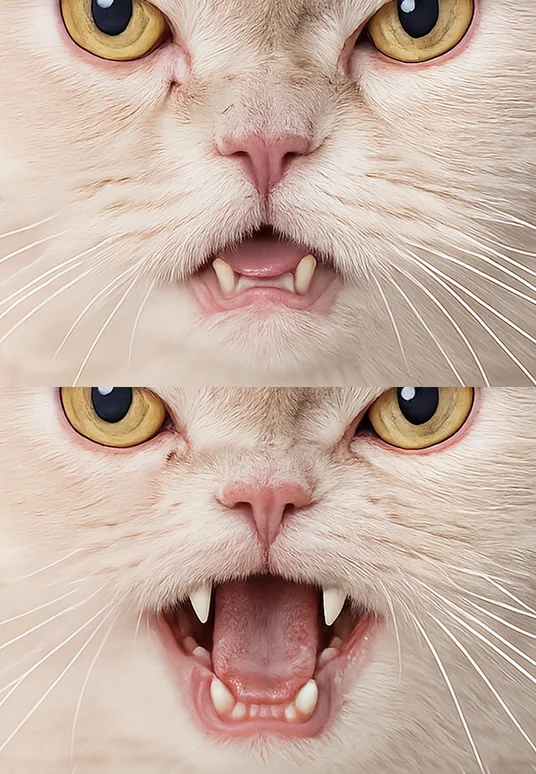
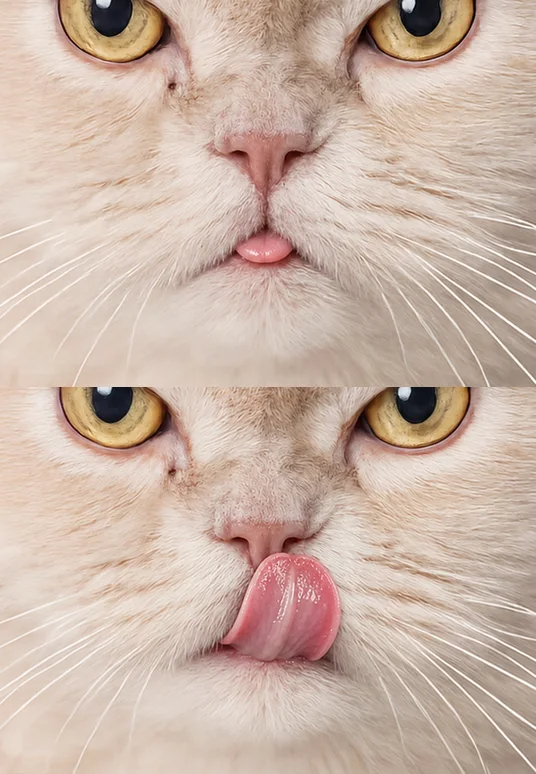
고양이 간식은 츄르: 삼식 핥는 혀 표정(ChatGPT), 잘린 머리 AI로 채우기
- 고양이는 모두 손끝에 츄르 스틱 (더 크고 또렷하게), 한 번 핥기 1.3초로 츄르가 천천히 줄어든다
- 삼식: 간식 입 2장을 츄르 핥는 혀로 다시 만들었다 (ChatGPT 구독, pet-add --cat-mouth lick), rig.lick
- 입 사진이 없는 고양이는 츄르를 댄 채 아래턱만 아주 작게 오물거린다
- AI 정면 프롬프트: 사진 밖으로 잘린 머리·귀·턱을 보이는 부분에 맞춰 채워 그리기.
  무료 버전이 '자른 뒤 머리 잘림'으로만 떨어진 아이는 고퀄 후보(layoutOnly)로 남기고, 원본에서 가장자리에 닿았으면 aiFill 표시
- 고퀄 정수리: 관절 짐작보다 실제 머리 털이 더 위면 그 높이로 (털 풍성·귀 접힌 고양이 머리 위가 평평하게 잘렸다)
- 고퀄 고양이 입 표정이 있으면 rig.lick을 늘 붙인다. 고퀄 작업 자리가 없어졌으면 다시 만든다
- pet-add: 자르는 범위가 바뀌면 AI 얼굴 정사각형 원본도 지운다 (남아 있으면 새 구도에 붙여 어긋났다)

diff --git a/scripts/shelter-make.ts b/scripts/shelter-make.ts
@@ -91,6 +91,10 @@ interface Verdict {
   hand?: boolean
   hq?: boolean
   aiFrontal?: boolean
+  /** 무료 버전은 '자른 뒤 머리 잘림'으로만 탈락 (고퀄은 AI가 잘린 부분을 채워 그려 만들 수 있다) */
+  layoutOnly?: boolean
+  /** 원본 사진에서 머리·귀가 사진 밖으로 잘려 AI가 채워 그렸다 */
+  aiFill?: boolean
   /** 정면도 0~1, 공고 사진 수, 판정을 통과한 사진 수 */
   frontal?: number
   total?: number
@@ -130,7 +134,10 @@ async function make() {
     const { options, why, total } = await judge(a)
     const v: Verdict = { id: a.id, sp: a.sp as 'dog' | 'cat', ok: false, why: [...why], total, passed: options.length, end: a.end }
     // 사람이 기준점을 손으로 맞춘 아이와 고퀄로 만든 아이는 다시 만들지 않고 그대로 쓴다 (덮어쓰면 손으로 맞춘 기준점·AI 결과가 사라진다)
-    const prev = handTuned(a.id) || previous.get(a.id)?.hq ? previous.get(a.id) : undefined
+    const prevV = previous.get(a.id)
+    // (고퀄 작업 자리가 없어졌으면 다시 만든다)
+    const prevHqOk = prevV?.hq && existsSync(join(hqDir(a.id), 'landmarks.json'))
+    const prev = handTuned(a.id) || prevHqOk ? prevV : undefined
     if (prev?.ok) {
       const hqId = prev.hq ? `shelter-${a.id}-hq` : undefined
       Object.assign(v, prev, { why: ['이전 결과 그대로 (손으로 맞춤·고퀄)', ...prev.why.filter((w) => !w.startsWith('이전 결과'))], end: a.end, rig: rigFor(a, hqId) })
@@ -148,6 +155,8 @@ async function make() {
         const bad = layoutProblems(rig as Rig)
         if (bad.length) {
           v.why.push(`${tag}: ${bad.join(', ')}`)
+          // 무료 버전은 탈락이지만, 고퀄(AI 정면)은 잘린 부분을 채워 그릴 수 있어 후보로 남긴다
+          if (!v.layoutOnly) Object.assign(v, { layoutOnly: true, photo: o.photo, frontal: o.frontal })
           continue
         }
         Object.assign(v, { ok: true, made: true, rig, photo: o.photo, frontal: o.frontal })
@@ -453,6 +462,8 @@ function rigFor(a: Animal, id = `shelter-${a.id}`) {
       fadeSides: { ...(frame.cutLeft && { left: -face.offsetX }), ...(frame.cutRight && { right: 1086 - face.offsetX }) },
     }),
     ...(expressions && { expressions }),
+    // 고퀄 고양이에 입 표정(츄르 핥는 혀)이 있으면 핥아 먹는다
+    ...(a.sp === 'cat' && id.endsWith('-hq') && expressions?.pant && { lick: true }),
     // 손으로 맞추지 않은 기준점이면 앱이 표정이 있어도 SAFE로 그린다
     autoLandmarks: !existsSync(join(SRC, 'hand-tuned')),
   }
@@ -485,7 +496,7 @@ async function hq(ids: string[]) {
   const vpath = join(STAGE, 'verdicts.json')
   const all = existsSync(vpath) ? (readJson(vpath).verdicts as Verdict[]) : fail('먼저 npm run shelter:make')
   const animals = new Map((readJson(join(DATA, 'animals.json')).animals as Animal[]).map((a) => [a.id, a]))
-  const pick = ids.map((id) => all.find((v) => v.id === id && v.ok) ?? fail(`통과하지 못했거나 없는 아이예요: ${id}`))
+  const pick = ids.map((id) => all.find((v) => v.id === id && (v.ok || v.layoutOnly)) ?? fail(`통과하지 못했거나 없는 아이예요: ${id}`))
   // 유료: 정면 새로 그리기 약 $0.2, 눈 감기 2장 약 $0.28
   const cost = pick.reduce((s, v) => s + (existsSync(join(hqDir(v.id), 'cutout.png')) ? 0 : 0.2) + (existsSync(join(hqDir(v.id), 'expr-final-square.png')) ? 0 : 0.28), 0)
   // --via chatgpt: ChatGPT 구독(gpt-image 스킬)으로 그린다 (API 비용 없음, 구독 사용량을 쓴다)
@@ -510,7 +521,20 @@ async function hq(ids: string[]) {
         const det = detectPadded(join(dir, 'cutout.png'), join(dir, 'cutout.detect.json'))
         const problems = det ? check({ ...det, humanFaces: 0, hands: [] }, v.sp).filter((p) => !p.startsWith('얼굴이 작음')) : ['Apple Vision 실패']
         if (problems.length) throw new Error(`AI 정면 사진 판정: ${problems.join(', ')}`)
-        writeJson(join(dir, 'landmarks.raw.json'), rawFromPose(det!, v.sp))
+        const raw = rawFromPose(det!, v.sp)
+        // 정수리: 관절로 짐작한 높이보다 실제 머리(불투명한 털)가 더 위면 그 높이로 (털이 풍성하거나 귀가 접힌 고양이는 짐작이 낮아 머리 위가 평평하게 잘렸다)
+        const top = spawnSync('python3', ['-c', `
+import sys, numpy as np
+from PIL import Image
+a = np.array(Image.open(sys.argv[1]).convert('RGBA'))[:, :, 3] > 128
+h, w = a.shape
+x0, x1 = int(float(sys.argv[2]) * w), int(float(sys.argv[3]) * w)
+cols = a[:, max(0, x0):min(w, x1)]
+rows = np.where(cols.mean(axis=1) > 0.5)[0]
+print(rows.min() / h if len(rows) else 1)`, join(dir, 'cutout.png'), String(raw.left_eye.x / 1000), String(raw.right_eye.x / 1000)], { encoding: 'utf8' })
+        const topN = Math.round(Number(top.stdout.trim()) * 1000)
+        if (Number.isFinite(topN) && topN < raw.head_top.y) raw.head_top = { x: raw.head_top.x, y: topN }
+        writeJson(join(dir, 'landmarks.raw.json'), raw)
         add('--id', id, '--from', 'frontal', '--until', 'prepare')
         writeFileSync(join(dir, 'landmarks.auto.json'), readFileSync(join(dir, 'landmarks.json')))
       } else add('--id', id, '--from', 'prepare', '--until', 'prepare')
@@ -521,8 +545,9 @@ async function hq(ids: string[]) {
       v.hq = !!(v.rig as { expressions?: unknown }).expressions
       v.hand = handTunedDir(dir)
       v.aiFrontal = true
-      // 고양이 '츄르 핥는 혀' 표정이면 앱이 간식을 핥아 먹는다
-      if (partsArg === 'mouth' && v.sp === 'cat') (v.rig as Record<string, unknown>).lick = true
+      v.aiFill = cutAtEdge(join(ROOT, 'pets-src', `shelter-${v.id}`, `src-${v.photo}.jpg`), join(ROOT, 'pets-src', `shelter-${v.id}`, 'cutout.png'))
+      // 고퀄이 되면 공개 후보 (무료 버전이 구도로 떨어졌어도)
+      v.ok = true
       log(`   ${v.hq ? '✓ 정면 + 눈 감기' : '✗ 눈 감기 표정 파일이 없어요'}${v.hand ? '' : ' (기준점 자동 → 앱은 SAFE. rig.html에서 맞추면 FULL)'}`)
     } catch (e) {
       log(`   ✗ 실패: ${(e as Error).message}`)
@@ -576,6 +601,20 @@ print(json.dumps({'w': w, 'h': h, 'p': p}))`, png, padded, String(bg), String(pa
   return null
 }
 
+/** 원본 사진에서 동물이 위·왼쪽·오른쪽 가장자리에 닿아 있는지 (머리·귀가 사진 밖으로 잘렸을 수 있다) */
+function cutAtEdge(_photo: string, cutout: string) {
+  if (!existsSync(cutout)) return false
+  const r = spawnSync('python3', ['-c', `
+import sys
+import numpy as np
+from PIL import Image
+a = np.array(Image.open(sys.argv[1]).convert('RGBA'))[:, :, 3] > 128
+h, w = a.shape
+band = max(2, int(min(h, w) * 0.01))
+print(int(a[:band].mean() > 0.03 or a[:, :band].mean() > 0.05 or a[:, -band:].mean() > 0.05))`, cutout], { encoding: 'utf8' })
+  return r.stdout.trim() === '1'
+}
+
 function handTunedDir(dir: string) {
   return existsSync(join(dir, 'hand-tuned'))
 }
@@ -592,7 +631,8 @@ function writePreview(verdicts: Verdict[], animals: Map<string, Animal>) {
     return `<label class="card ${v.ok ? 'ok' : 'no'}">
   <div class="imgs"><img src="${src}" loading="lazy">${v.made ? `<img class="face" src="${v.id}/face.webp" loading="lazy">` : ''}</div>
   <div class="meta">${v.ok ? `<input type="checkbox" value="${v.id}"${preChecked.has(v.id) ? ' checked' : ''}> ` : ''}<b>${v.sp === 'dog' ? '🐶' : '🐱'} ${v.id}</b>
-  ${v.ok ? `<div class="pick">${dday(v.end)} · ${v.hq && v.hand ? '✨ 고퀄 · ✋ 손으로 맞춤' : v.hand ? '✋ 손으로 맞춤' : v.hq ? `✨ 고퀄 (기준점 자동) · <a href="http://localhost:5173/rig.html?id=shelter-${v.id}-hq" target="_blank">기준점 맞추기</a>` : `<a href="http://localhost:5173/rig.html?id=shelter-${v.id}${v.aiFrontal ? '-hq' : ''}" target="_blank">기준점 맞추기</a>`}</div>` : ''}
+ ${!v.ok && v.layoutOnly ? `<div class="pick">${dday(v.end)} · 무료 버전은 머리 잘림 → 고퀄 후보 (AI가 채워 그림)</div>` : ''}
+  ${v.ok ? `<div class="pick">${dday(v.end)} ·${v.aiFill ? ' ✂ 잘린 부분 AI로 채움 ·' : ''} ${v.hq && v.hand ? '✨ 고퀄 · ✋ 손으로 맞춤' : v.hand ? '✋ 손으로 맞춤' : v.hq ? `✨ 고퀄 (기준점 자동) · <a href="http://localhost:5173/rig.html?id=shelter-${v.id}-hq" target="_blank">기준점 맞추기</a>` : `<a href="http://localhost:5173/rig.html?id=shelter-${v.id}${v.aiFrontal ? '-hq' : ''}" target="_blank">기준점 맞추기</a>`}</div>` : ''}
   ${v.ok ? `<div class="pick">정면도 ${Math.round((v.frontal ?? 0) * 100)}% · ${v.total}장 중 ${(v.photo ?? 0) + 1}번째 (통과 ${v.passed}장)</div>` : ''}
   <small>${v.why.join('<br>')}</small></div>
 </label>`
@@ -637,7 +677,7 @@ function publish(ids: string[]) {
   }
   writeJson(join(tree, 'manifest.json'), {
     updated: madeAt,
-    pets: pick.map((p) => ({ id: p.id, sp: p.sp, madeAt, rig: p.rig, photo: `shelter/${p.id}/photo.jpg`, ...(p.aiFrontal && { aiFrontal: true }) })),
+    pets: pick.map((p) => ({ id: p.id, sp: p.sp, madeAt, rig: p.rig, photo: `shelter/${p.id}/photo.jpg`, ...(p.aiFrontal && { aiFrontal: true }), ...(p.aiFill && { aiFill: true }) })),
   })
   // 부모 없는 커밋 하나로 브랜치를 새로 만든다 (지금 공개할 아이들만, 기록이 쌓이지 않게). 작업 폴더·현재 브랜치는 건드리지 않는다
   const index = join(STAGE, '_index')

diff --git a/scripts/pet-add.ts b/scripts/pet-add.ts
@@ -120,6 +120,8 @@ if (run('cutout')) {
         prompt:
           `Close-up portrait photo of this exact same ${species} (same fur color and length, same markings and where they are, same face shape, ` +
           'same eye color, same ear shape and ear carriage: upright ears stay upright, folded or floppy ears stay folded or floppy). ' +
+          'If the head, ears or chin are cut off by the edge of the photo, complete the missing parts naturally so they match the visible parts ' +
+          '(same fur, color and ear shape); the whole head and both full ears must be visible. ' +
           'Face-focused framing: the head fills most of the frame, including both ears fully, with just the top of the chest visible at the bottom edge. ' +
           'Facing the camera straight on, head centered and level, both eyes open and looking directly into the lens, mouth closed and relaxed. ' +
           'Soft, even, diffuse studio lighting with no harsh shadows, very sharp focus on individual fur strands and whiskers, natural colors, photorealistic. ' +
@@ -324,6 +326,8 @@ if (run('frame')) {
   const prevFrame = existsSync(f.frame) ? JSON.stringify(readJson(f.frame).box) : ''
   if (prevFrame && prevFrame !== JSON.stringify(box)) {
     for (const name of Object.keys(prompts('dog'))) rmSync(f.expr(name), { force: true })
+    // AI가 그린 얼굴 정사각형 원본도 (남아 있으면 새 구도에 다시 붙여 어긋난다)
+    for (const sq of ['mid', 'final', 'eat', 'eatmid']) rmSync(join(SRC, `expr-${sq}-square.png`), { force: true })
     rmSync(join(SRC, 'face-square.json'), { force: true })
     warn('자르는 범위가 바뀌어 전에 만든 표정 사진을 지웠어요')
   }
@@ -375,7 +379,19 @@ if (run('expressions')) {
             `Edit this close-up photo of the dog with two changes at the same time: (1) both eyes gently closed, happy and content; ` +
             `(2) happily panting, mouth open in a relaxed doggy smile with the pink tongue slightly out over the lower teeth. ${KEEP_ID}`,
         }
-  const P = withMouth ? { ...P0, ...mouthPrompts } : eyesOnly ? { ...P0, mid: P0.eyesHalf, final: P0.eyesClosed } : P0
+  // --cat-mouth lick: 고양이 간식 입 2장을 '츄르 핥는 혀'로 (간식이 츄르라서. 눈·귀 표정은 그대로)
+  const lickMouth =
+    args['cat-mouth'] === 'lick'
+      ? {
+          eatMid:
+            `Edit this photo so the cat's mouth is slightly open with just the tip of the small pink tongue showing, as if about to lick a creamy treat. ` +
+            `Eyes, nose, whiskers and ears unchanged. No food in the image. ${KEEP_ID}`,
+          eat:
+            `Edit this photo so the cat's pink tongue sticks out and curls slightly upward, licking as if lapping a creamy treat. ` +
+            `Eyes, nose, whiskers and ears unchanged. No food in the image. ${KEEP_ID}`,
+        }
+      : {}
+  const P = { ...(withMouth ? { ...P0, ...mouthPrompts } : eyesOnly ? { ...P0, mid: P0.eyesHalf, final: P0.eyesClosed } : P0), ...lickMouth }
   // 얼굴 정사각형 (귀와 턱까지). 최종 사진 좌표 → base 좌표 (+잘라낸 위치)
   const D = dist(lm.leftEye, lm.rightEye)
   const top = Math.min(lm.headTop.y, lm.leftEar.tip.y, lm.rightEar.tip.y) - D * 0.15

diff --git a/src/pet.ts b/src/pet.ts
@@ -420,6 +420,11 @@ export class Pet {
     return this.treats.get(id) ?? 0
   }
 
+  /** 한 입 시간: 고양이는 츄르를 날름날름 핥아 한 입이 길다 */
+  private get biteS() {
+    return this.p.species === 'cat' ? CHURU_BITE : TREAT_BITE
+  }
+
   /** 입 자리 (펫 로컬 좌표): 입이 벌어지는 곳 */
   private get mouth() {
     return { x: this.leanX, y: this.L.mouthY }
@@ -459,8 +464,8 @@ export class Pet {
         // 한 입: 입을 벌렸다 다물 때(한 입의 55%) 간식이 줄어든다
         const left = this.treats.get(this.eatHand) ?? 0
         const bitten = TREAT_BITES - left
-        if (this.eatT > TREAT_BITE * (bitten + 0.55) && left > 0) this.treats.set(this.eatHand, left - 1)
-        if ((this.treats.get(this.eatHand) ?? 0) === 0 && this.eatT > TREAT_BITE * TREAT_BITES) {
+        if (this.eatT > this.biteS * (bitten + 0.55) && left > 0) this.treats.set(this.eatHand, left - 1)
+        if ((this.treats.get(this.eatHand) ?? 0) === 0 && this.eatT > this.biteS * TREAT_BITES) {
           this.eatPhase = 'chew'
           this.eatT = 0
           // 간식을 받아먹으면 낯가리던 아이도 마음을 연다
@@ -476,7 +481,7 @@ export class Pet {
     // 입 벌림: 한 입마다 앞쪽 절반은 크게 벌리고 있다가 다문다.
     // 사진(다문 입·벌린 입) 사이의 중간 모양은 이와 혀가 맞지 않아 구겨져 보이므로, 그 사이는 빠르게(약 0.07초) 넘긴다
     const biting = this.eatHand && this.eatPhase === 'bite'
-    const ph = biting ? (this.eatT / TREAT_BITE) % 1 : 1
+    const ph = biting ? (this.eatT / this.biteS) % 1 : 1
     this.chomp = approach(this.chomp, biting && ph < 0.5 ? 1 : 0, 45, dt)
     // 씹기 시작·끝도 사진 사이를 빠르게 넘긴다 (천천히 넘기면 그동안 입이 구겨져 보인다)
     this.chew = approach(this.chew, this.eatHand && this.eatPhase === 'chew' && this.eatT < TREAT_CHEW - 0.3 ? 1 : 0, 40, dt)
@@ -1236,6 +1241,8 @@ const PAW_AIR = 'air'
 /** 간식 주기: 간식 수, 한 입 시간, 먹기 전 냄새 맡는 시간, 다 먹고 씹는 시간 (초) */
 const TREAT_BITES = 3
 const TREAT_BITE = 0.55
+/** 고양이 츄르 한 번 핥는 시간 (세 번에 나눠 약 4초) */
+const CHURU_BITE = 1.3
 const TREAT_SNIFF = 0.7
 const TREAT_CHEW = 1.8
 /** 간식이 입에서 얼굴 반폭의 이 비율 안에 오면 받아먹는다 */

diff --git a/src/fur.ts b/src/fur.ts
@@ -1388,7 +1388,9 @@ export class FurRenderer {
     // (입 벌린 사진이 있으면 무는 동작은 사진이 하고, 씹을 때 아래턱만 오르내린다)
     const chewBob = p.chew * (0.5 + 0.5 * Math.sin(p.t * 9)) * CHEW_OPEN
     // 입 사진이 있으면 턱은 그대로 둔다 (턱 부위만 끌어내리면 아랫입술 선이 어긋나 구겨져 보인다)
-    const eatJaw = rig.expressions?.pant ? 0 : -(p.chomp * CHOMP_OPEN + chewBob)
+    // 입 사진이 없는 고양이(츄르)는 입을 벌리지 못하니, 츄르를 댄 채 아래턱만 아주 작게 오물거린다
+    const nibble = p.species === 'cat' && p.chomp > 0.5 ? (0.5 + 0.5 * Math.sin(p.t * Math.PI * 2 * 3)) * CHURU_NIBBLE : 0
+    const eatJaw = rig.expressions?.pant ? 0 : p.species === 'cat' ? -(nibble + chewBob * 0.5) : -(p.chomp * CHOMP_OPEN + chewBob)
     gl.uniform1f(this.loc('uChinLift'), (m.chinLift * CHIN_LIFT * calm.face + pantBob + eatJaw) * toPx)
     gl.uniform1f(this.loc('uWhisker'), p.species === 'cat' ? Math.max(0, p.happy - 0.3) * 3.2 * toPx * calm.face : 0)
     gl.uniform2f(this.loc('uTurn'), soft(m.yaw, 1) * YAW_SHIFT * toPx * calm.head, -soft(m.pitch, 1) * PITCH_SHIFT * toPx * calm.head)
@@ -1560,6 +1562,8 @@ const DRAWN_REARM_S = 1.5
 
 /** 간식 먹기: 한 입 물 때, 씹을 때 아래턱이 내려가는 거리 (펫 로컬 단위) */
 const CHOMP_OPEN = 5
+/** 입 사진이 없는 고양이가 츄르를 먹을 때 턱이 오물거리는 거리 */
+const CHURU_NIBBLE = 1.4
 const CHEW_OPEN = 3
 
 /** 표정 전환 시간 (초). 놀랄 때 귀는 빨리 젖히고 천천히 돌아온다 */

diff --git a/src/main.ts b/src/main.ts
@@ -949,7 +949,8 @@ churuImg.src = assetUrl('pets/churu.webp')
 
 function drawTreat(left: number, pts: Pt[]) {
   if (left <= 0) return
-  if (pet.p.photo?.lick) return drawChuru(left, pts)
+  // 고양이 간식은 츄르 (접시도 츄르 스틱)
+  if (pet.p.species === 'cat') return drawChuru(left, pts)
   const img = treatStage(left)
   if (!img) return
   const x = (pts[4].x + pts[8].x) / 2
@@ -971,7 +972,8 @@ function drawChuru(left: number, pts: Pt[]) {
   const x = (pts[4].x + pts[8].x) / 2
   const y = (pts[4].y + pts[8].y) / 2
   const f = left / 3
-  const h = pet.L.headRx * 1.0 * scale
+  // 손에 든 츄르가 또렷이 보이게: 얼굴 반폭의 1.4배 길이 (짧으면 혀에 가려 보이지 않는다)
+  const h = pet.L.headRx * 1.4 * scale
   const w = (h * churuImg.naturalWidth) / churuImg.naturalHeight
   // 남은 양만큼 위쪽(퓨레)을 덜 보이게: 다 먹을수록 위쪽 15%까지 잘라 낸다
   const cut = (1 - f) * 0.15
@@ -980,7 +982,6 @@ function drawChuru(left: number, pts: Pt[]) {
   ctx.save()
   ctx.shadowColor = 'rgba(60, 35, 15, 0.3)'
   ctx.shadowBlur = w * 0.3
-  ctx.globalAlpha = 0.6 + 0.4 * f
   ctx.drawImage(churuImg, 0, sy, churuImg.naturalWidth, churuImg.naturalHeight - sy, x - w / 2, y - h * 0.08, w, dh)
   ctx.restore()
 }
